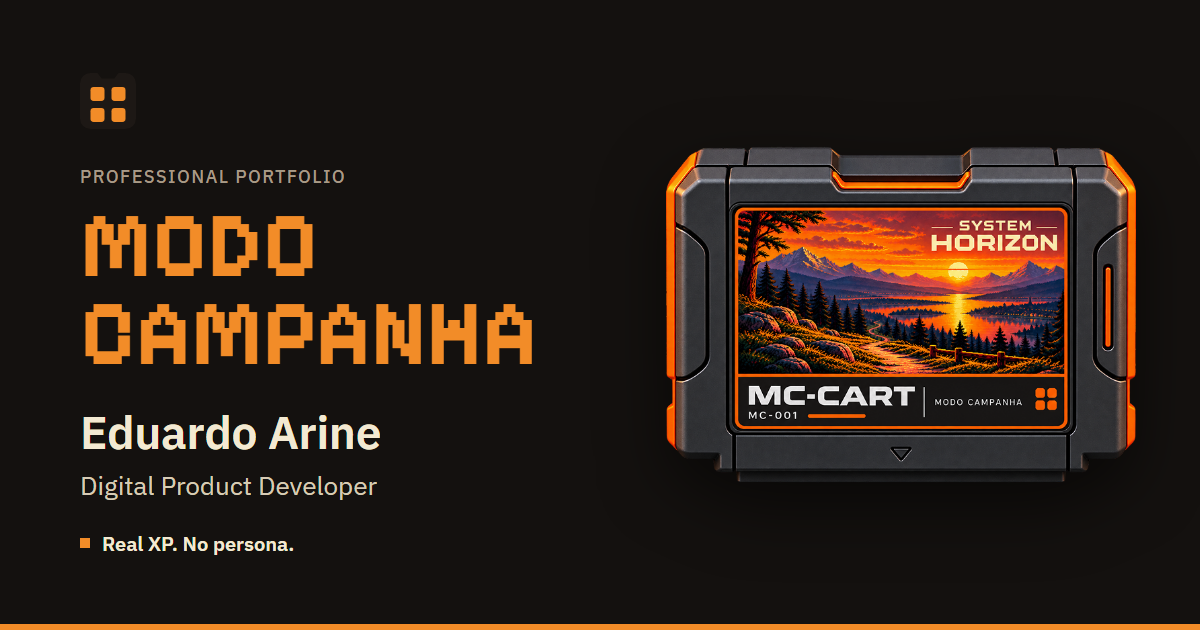
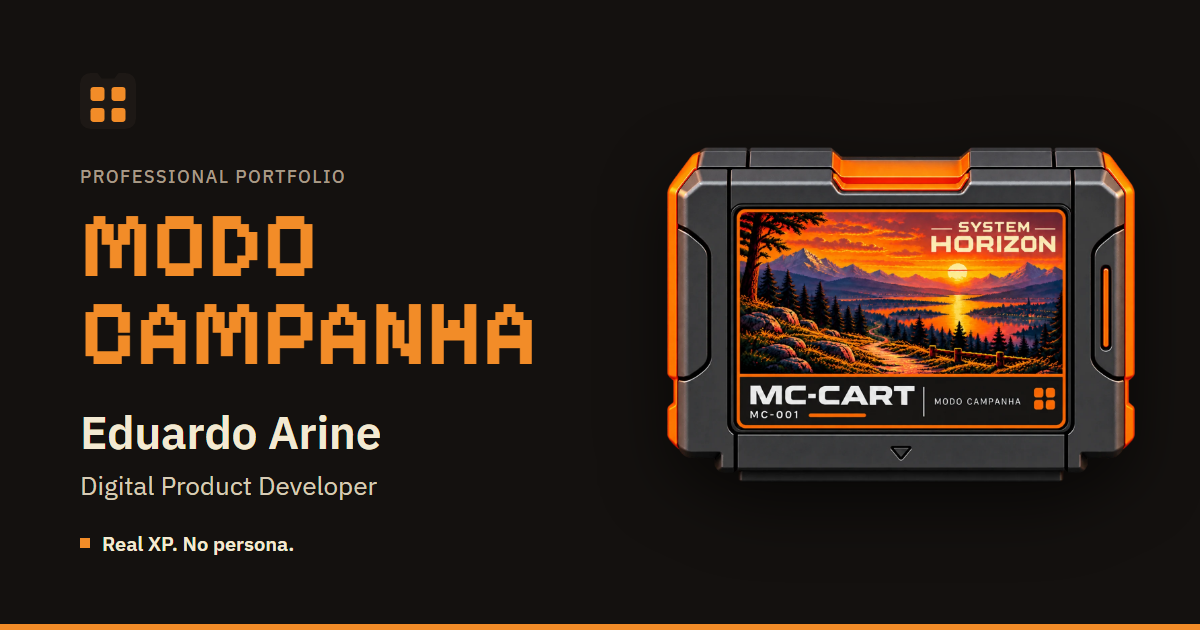
feat(seo): harmonize the share image with the official MC-001 shell (D-088)
The og:image template now uses the collection shell (console-scale-1398.webp),
the same source as the MC-01 insertion; only the top handle changes. render-og
accepts OG_OUT to write previews outside public/.

Changed region(s): [[0.555, 0.2413, 0.9558, 0.754]]

diff --git a/design/source/brand/og/og-image.html b/design/source/brand/og/og-image.html
@@ -136,7 +136,8 @@
       <p class="role" id="role"></p>
       <p class="motto" id="motto"></p>
     </div>
-    <img class="cart" src="../../mc-01/mc-001-console-scale.png" alt="" />
+    <!-- Carcaça oficial da coleção (D-088), o mesmo derivado 2× do encaixe no MC-01. -->
+    <img class="cart" src="../../../../public/assets/cartridges/mc-001/console-scale-1398.webp" alt="" />
     <div class="rule"></div>
     <script>
       // Textos aprovados (D-085): ui.*.hero.eyebrow e PLAYER_PROFILE (role, motto). Ao mudar, regerar.
